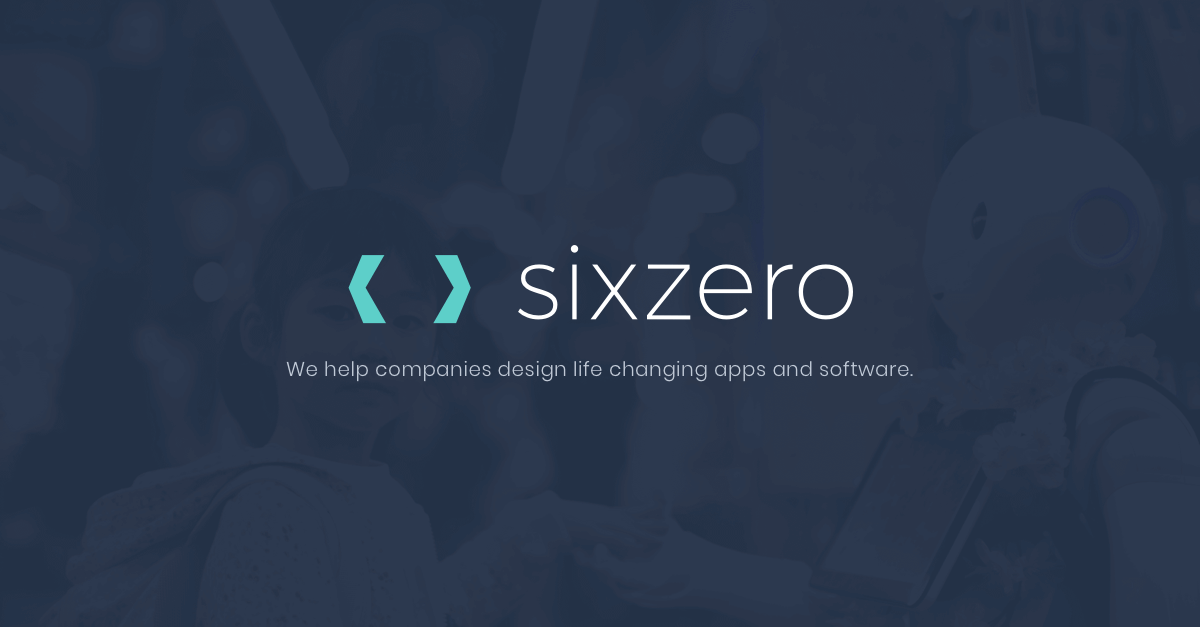
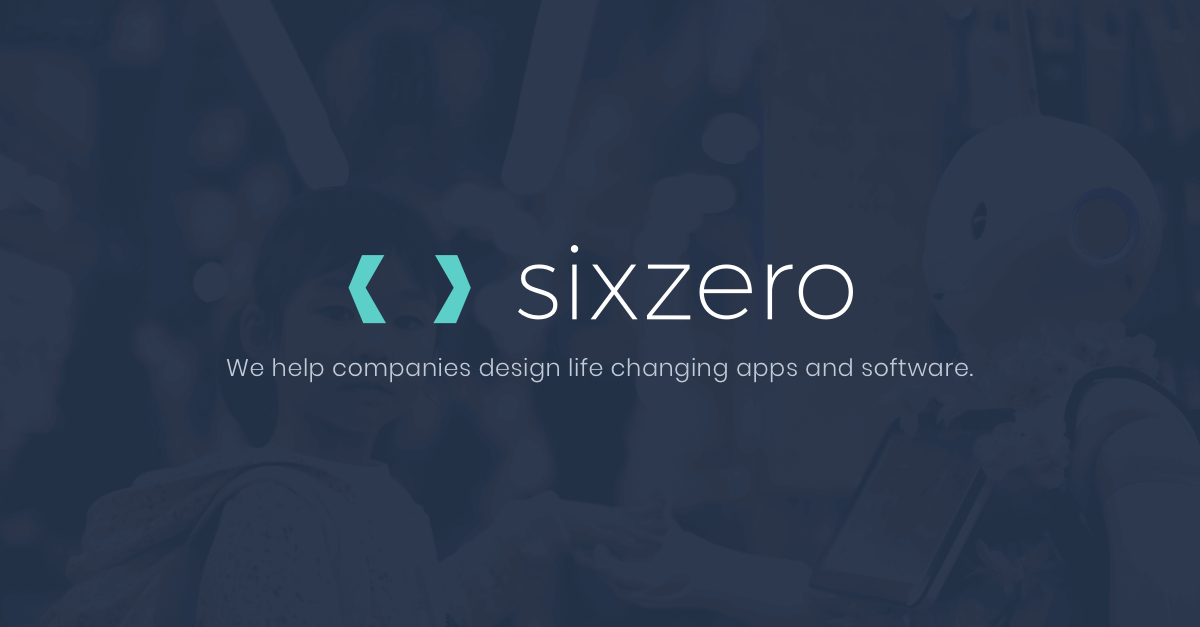
fix og image and description

Changed region(s): [[0.185, 0.5758, 0.8017, 0.6061]]

diff --git a/_includes/meta-data.html b/_includes/meta-data.html
@@ -15,6 +15,6 @@
 <meta property="og:image" content="http://sixzero.co/assets/img/og-image.png" />
 <meta property="og:image:width" content="1200" />
 <meta property="og:image:height" content="627" />
-<meta propert="og:description" content="We help companies design life changing apps and software." />
+<meta propert="og:description" content="Human focused UX/UI software design agency." />
 <meta property="og:image:alt" content="Sixzero banner with logo" />
 <meta property="og:url" content="{{ page.url }}" />

diff --git a/_site/index.html b/_site/index.html
@@ -19,7 +19,7 @@
 <meta property="og:image" content="http://sixzero.co/assets/img/og-image.png" />
 <meta property="og:image:width" content="1200" />
 <meta property="og:image:height" content="627" />
-<meta propert="og:description" content="We help companies design life changing apps and software." />
+<meta propert="og:description" content="Human focused UX/UI software design agency." />
 <meta property="og:image:alt" content="Sixzero banner with logo" />
 <meta property="og:url" content="/" />
 
